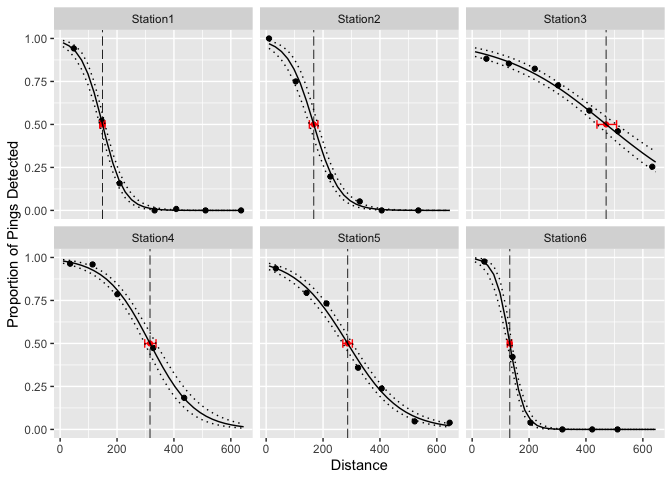
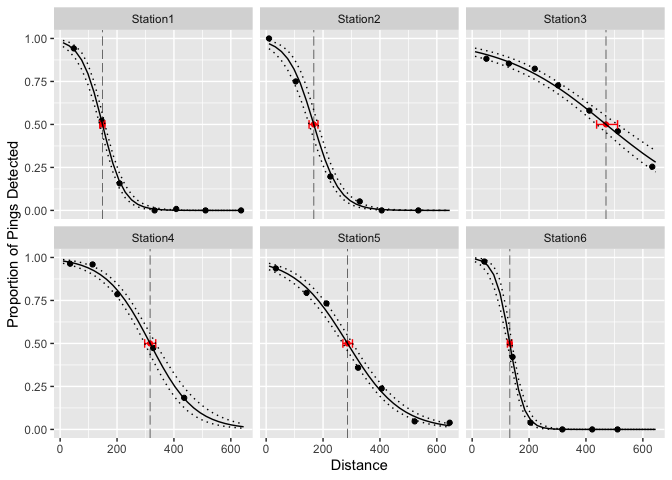
allow replacing one prior

diff --git a/README.md b/README.md
@@ -78,15 +78,19 @@ Note a single prior can be changed and the default priors will remain
 for the rest.
 
 ``` r
+### set target DE to 50%
 de_target <- 0.5
-analysis <- dr_analyse(data, de_target = de_target, nthin = 1L)
+### replace default prior for bIntercept
+prior_bIntercept <- list(bIntercept = "dnorm(10, 5^-2)") 
+
+analysis <- dr_analyse(data, de_target = de_target, priors = prior_bIntercept, nthin = 1L)
 #> Registered S3 method overwritten by 'rjags':
 #>   method               from 
 #>   as.mcmc.list.mcarray mcmcr
 #> # A tibble: 1 × 8
 #>       n     K nchains niters nthin   ess  rhat converged
 #>   <int> <int>   <int>  <int> <int> <int> <dbl> <lgl>    
-#> 1    38     4       3   1000     1    12  1.85 FALSE
+#> 1    38     4       3   1000     1    18  2.70 FALSE
 ```
 
 The output of `dr_analyse()` is an object of class `mbr`. It can be
@@ -107,12 +111,12 @@ dr_analysis_midpoint(analysis)
 #> # A tibble: 6 × 5
 #>   Station  estimate lower upper svalue
 #>   <fct>       <dbl> <dbl> <dbl>  <dbl>
-#> 1 Station1     149.  139.  158.   11.6
-#> 2 Station2     167.  152.  182.   11.6
-#> 3 Station3     471.  439.  508.   11.6
-#> 4 Station4     316.  297.  337.   11.6
-#> 5 Station5     287.  270.  303.   11.6
-#> 6 Station6     132.  123.  139.   11.6
+#> 1 Station1     149.  139.  157.   11.6
+#> 2 Station2     167.  151.  182.   11.6
+#> 3 Station3     470.  437.  511.   11.6
+#> 4 Station4     316.  297.  336.   11.6
+#> 5 Station5     286.  270.  303.   11.6
+#> 6 Station6     132.  124.  140.   11.6
 ```
 
 ``` r
@@ -121,10 +125,10 @@ dr_analysis_coef(analysis)
 #> # A tibble: 4 × 5
 #>   term              estimate   lower  upper svalue
 #>   <term>               <dbl>   <dbl>  <dbl>  <dbl>
-#> 1 bIntercept            3.65   1.33    4.94   11.6
-#> 2 bMidpoint           264.   221.    342.     11.6
-#> 3 sInterceptStation     1.14   0.483   3.09   11.6
-#> 4 sMidpointStation    122.    78.8   205.     11.6
+#> 1 bIntercept            3.68   2.60    4.61   11.6
+#> 2 bMidpoint           230.   146.    348.     11.6
+#> 3 sInterceptStation     1.07   0.513   2.30   11.6
+#> 4 sMidpointStation    129.    79.9   217.     11.6
 ```
 
 ## Code of Conduct
